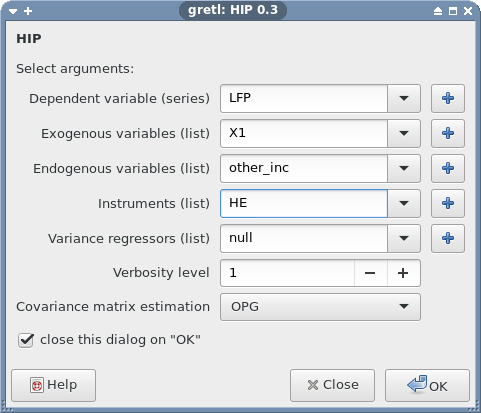
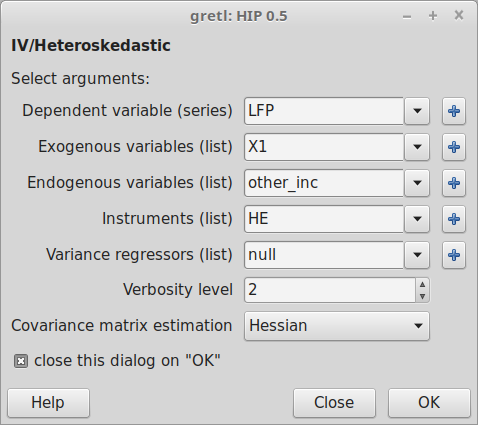
Revise the documentation for the HIP addon, plus some marginal touches to the code

diff --git a/addons/HIP/doc/HIP.tex b/addons/HIP/doc/HIP.tex
@@ -135,7 +135,7 @@
 
 \title{The HIP package}
 \author{Jack Lucchetti \and Claudia Pigini}
-\date{version 0.42}
+\date{version 0.5}
 \begin{document}
 
 \maketitle
@@ -242,25 +242,25 @@ which yields:
 
 \begin{code}
 Probit model with endogenous regressors
-ML, using observations 1-500
-Dependent Variable: y 
+ML, using observations 1-753
+Dependent Variable: LFP 
 Instrumented: other_inc
-Instruments: const, fem_educ, kids, male_educ 
+Instruments: const, WE, KL6, HE 
 Parameter covariance matrix: OPG
 
-              coefficient   std. error      z      p-value 
-  ---------------------------------------------------------
-  const        0.367208     0.460541      0.7973   0.4253  
-  fem_educ     0.211111     0.0290285     7.273    3.53e-13 ***
-  kids        -0.182093     0.0484024    -3.762    0.0002   ***
-  other_inc   -0.0542756    0.00608741   -8.916    4.83e-19 ***
+              coefficient   std. error     z      p-value 
+  --------------------------------------------------------
+  const       -1.20677      0.277614     -4.347   1.38e-05 ***
+  WE           0.179911     0.0297031     6.057   1.39e-09 ***
+  KL6         -0.646468     0.102047     -6.335   2.37e-10 ***
+  other_inc   -0.0332341    0.0156644    -2.122   0.0339   **
 
-Log-likelihood       -2368.2062  Akaike criterion    4756.4124
-Schwarz criterion     4798.5585  Hannan-Quinn        4772.9505
-Conditional ll      -252.045293  Cragg-Donald stat.    101.060
+Log-likelihood       -3325.8255  Akaike criterion    6671.6509
+Schwarz criterion     6717.8916  Hannan-Quinn        6689.4651
+Conditional ll      -465.248010  Cragg-Donald stat.     51.707
 
-Overall test (Wald) = 154.702 (3 df, p-value = 0.0000)
-Endogeneity test (Wald) = 6.84499 (1 df, p-value = 0.0089)
+Overall test (Wald) = 73.9702 (3 df, p-value = 0.0000)
+Endogeneity test (Wald) = 0.446846 (1 df, p-value = 0.5038)
 \end{code}
 
 In this case we used the function \texttt{HIP}, which takes as
@@ -303,7 +303,7 @@ test for $\ProbitPar = 0$ (apart from the intercept).
 
 \begin{figure}[htbp]
   \centering
-  \includegraphics[scale=0.5]{HIP-sshot1.png}
+  \includegraphics[scale=0.4]{HIP-sshot1.png}
   \caption{HIP GUI hook}
   \label{fig:HIP_window}
 \end{figure}
@@ -314,9 +314,23 @@ you'll find it among the other function packages installed on your box
   machine}). Double-click and edit the window that appears like in
 Figure \ref{fig:HIP_window}.
 
+\begin{figure}[htbp]
+  \centering
+  \includegraphics[scale=0.4]{HIP-sshot2.png}
+  \caption{HIP output}
+  \label{fig:HIP_output}
+\end{figure}
+
+\begin{figure}[hbtp]
+  \centering
+  \includegraphics[scale=0.4]{HIP-sshot3.png}
+  \caption{Icon view with a HIP bundle}
+  \label{fig:iconview}
+\end{figure}
+
 Note that in this case we changed the default value of ``Verbosity''
 from 1 to 2 and the default value of ``Covariance matrix estimation''
-from 0 to 1. 
+from ``OPG'' to ``Hessian''. 
 %
 % FIXME this does ot agree with Figures 1 and 2
 %
@@ -324,20 +338,6 @@ This will have the effect of showing us the first stage
 equation as well, and of using the Hessian instead of the OPG as the
 method for computing standard errors. All this is apparent in Figure
 \ref{fig:HIP_output}.
-
-\begin{figure}[htbp]
-  \centering
-  \includegraphics[scale=0.5]{HIP-sshot2.png}
-  \caption{HIP output}
-  \label{fig:HIP_output}
-\end{figure}
-
-\begin{figure}[htbp]
-  \centering
-  \includegraphics[scale=0.5]{HIP-sshot3.png}
-  \caption{Icon view with a HIP bundle}
-  \label{fig:iconview}
-\end{figure}
 
 By using the \emph{Save} menu, you can choose the individual
 elements of the bundle to store away for later use if you
@@ -350,13 +350,13 @@ wamt to keep (see Figure \ref{fig:iconview}).
 \subsection{Heteroskedastic probit}
 
 Here, we'll replicate the example given in William Greene's textbook
-(5th edition), which also uses \citeauthor{Mroz87}'s dataset. The
+(7th edition), which also uses \citeauthor{Mroz87}'s dataset. The
 script goes like this:
 
 \begin{code}
 include HIP.gfn
 
-open mroz87.gdt -q
+open mroz87.gdt --quiet
 series WA2 = WA^2
 series KIDS = (KL6 + K618)>0
 income = FAMINC /10000
@@ -364,24 +364,26 @@ income = FAMINC /10000
 list X = const WA WA2 income KIDS WE
 list Z = income KIDS
 
-list endo = WE
-list inst = WMED WFED CIT
-
 Mitchell = HIP_setup(LFP, X, null, null, Z)
-
+HIP_setoption(&Mitchell, "vcvmeth", 1)
+ 
 set stopwatch
 HIP_estimate(&Mitchell)
 printf "Elapsed time = %g seconds\n", $stopwatch
 
-HIP_printout(&Mitchell, 2)
+HIP_printout(&Mitchell)
 \end{code}
 
 Note that in this case we did not use the \texttt{HIP} function, but
-instead we split its workload between three separate functions:
+instead we split its workload between four separate functions:
 \begin{description}
 \item[HIP\_setup] Sets up the model: basically, it has the same
   parameters as the all-rounder \texttt{HIP} function seen
   above. Returns a bundle.
+\item[HIP\_setoption] Set some details of the estimation procedure; in
+  this case, we used it to compute standard erros out of the inverse
+  Hessian onstead of the OPG matrix, so as to match exactly the
+  figures reported in Greene's book.
 \item[HIP\_estimate] Estimates the model: takes as argument the bundle
   address, plus an optional scalar for the verbosity.
 \item[HIP\_printout] Prints out the results contained in the bundle.
@@ -393,16 +395,45 @@ computed during the initialization of the bundle. You may want to
 decide whether to proceed with estimation or not depending on how
 strong your instruments are.
 
-Of course, the same can be accomplished through the GUI. 
-%(\ldots blah blah \ldots)
+The output, replicating table 17.7 in Greene's textbook, should look
+like this:
+
+\begin{code}
+Heteroskedastic probit model 
+ML, using observations 1-753
+Dependent Variable: LFP 
+Parameter covariance matrix: Hessian
+
+             coefficient   std. error     z      p-value
+  ------------------------------------------------------
+  const      -6.02985      2.49810      -2.414   0.0158  **
+  WA          0.264291     0.118159      2.237   0.0253  **
+  WA2        -0.00362838   0.00143387   -2.530   0.0114  **
+  income      0.424441     0.221839      1.913   0.0557  *
+  KIDS       -0.879093     0.302753     -2.904   0.0037  ***
+  WE          0.140149     0.0518536     2.703   0.0069  ***
+
+Variance 
+
+             coefficient   std. error      z      p-value
+  -------------------------------------------------------
+  KIDS        -0.140752     0.323745    -0.4348   0.6637 
+  income       0.312918     0.122810     2.548    0.0108  **
+
+Log-likelihood        -487.6356  Akaike criterion     991.2712
+Schwarz criterion     1028.2637  Hannan-Quinn        1005.5225
+
+Overall test (Wald) = 14.5557 (5 df, p-value = 0.0124)
+Heteroskedasticity test (LR) = 6.42453 (2 df, p-value = 0.0403)
+Chesher and Irish normality test = 6.23055 (2 df, p-value = 0.0444)
+\end{code}
 
 \subsection{Let's get HIP. Heteroskedasticity and endogeneity at the
   same time.}
 
 The script goes:
 \begin{code}
-set echo off 
-set messages off
+set verbose off 
 include HIP.gfn
 
 open mroz87.gdt -q
@@ -422,7 +453,7 @@ coefficients. The output is as follows:
 \begin{code}
 Heteroskedastic probit model with endogenous regressors
 ML, using observations 1-753
-Dependent Variable: y 
+Dependent Variable: LFP 
 Instrumented: WE
 Instruments: const, WA, CIT, K618, WMED, WFED 
 Parameter covariance matrix: OPG
@@ -478,13 +509,10 @@ If this happens, here are some points to consider.
 \item Scaling of the data (especially $\Endog$) can be an issue; we do
   our best, but hey, give us a hand (for example, multiply or divide
   by 1000 depending of the original scale of the data).
-\item Weak instruments: in some cases, there's little that can be done;
-  see for example the artificially-generated dataset contained in the
-%
-% FIXME there's no weak.gdt in the current package
-%
-  example file \texttt{weak.gdt} in the examples directory. We do some
-  heuristics, but we're not omnipotent.
+\item Weak instruments: in some cases, there's little that can be
+  done; see for example the artificially-generated dataset contained
+  in the \texttt{MonteCarlo.inp} example script, contained in the
+  examples directory. We do some heuristics, but we're not omnipotent.
 \end{itemize}
 
 %\clearpage
@@ -656,57 +684,75 @@ be written as
 \subsection{Model setup}
 \label{sec:gig_setup}
 
-\smallskip
-\textbf{FIXME}: THIS IS OUTDATED AT THE MOMENT AND NEEDS TO BE FIXED.
-\smallskip
+\begin{funcdoc}{HIP\_setoption(bundle *b, string opt, scalar value)}
+  \begin{description}
+  \item[Return type]: \texttt{scalar}
+  \item[\texttt{b}]: pointer to a bundle containing the model to be
+    estimated, as created by \cmd{HIP\_setup}; 
+  \item[\texttt{opt}]: string, the option to set;
+  \item[\texttt{value}]: scalar, the option value
+  \end{description}
+
+  This function sets up an option for estimation of the model, so it
+  is typically used after \cmd{HIP\_setup} and before
+  \cmd{HIP\_estimate}. At present, the possible values for the
+  \texttt{opt} field are ``verbose'' (possible values: 0 to 3) and
+  ``vcvmeth'' (possible values: 0 to 2).
+
+  For ``verbose'', the meaning is: 0 = operate silently, 1 = standard
+  output (default choice), 2 = print the first stage too for IV
+  estimation and 3 = print out ML iterations.  For ``vcvmethod'', the
+  meaning is: 0 = OPG (default), 1 = Hessian, 2 = Sandwich-robust.
+\end{funcdoc}
 
 
-\begin{funcdoc}{HIP\_setup(series y, list EXOG, list ENDOG[null], \
-			  list ADDIN[null], list HETVAR[null], \
-			  int s[0:2:0])}
-\begin{enumerate}
-\item a series containing $y_i$, the dependent binary variable 
-\textbf{(required)}
-\item a list containing the exogenous variables $\Exog$ in $\ExoInst$
-in equation \eqref{eq:main} \textbf{(required)}
-\item a list containing the exogenous variables $\Endog$ in equations
-\eqref{eq:main}--\eqref{eq:RF}
-\item a list containing the additional instruments $\Inst$ in $\ExoInst$
-in equation \eqref{eq:RF}
-\item a list containing the variables $\CSReg$ of the skedastic function
-in equation \eqref{eq:main}
-\item a scalar, acting as an integer, for the choice of the covariance
-  matrix estimation method
-\end{enumerate}
+
+\begin{funcdoc}{HIP\_setup(series y, list EXOG, list ENDOG[null], list ADDIN[null], \\
+			  \rule{2cm}{0pt} list HETVAR[null])}
+\begin{description}
+  \item[Return type]: \texttt{bundle}
+  \item[\texttt{y}]: a series containing $y_i$, the dependent binary
+    variable; \textbf{(required)}
+  \item[\texttt{EXOG}]: a list containing the exogenous variables
+    $\Exog$ in $\ExoInst$ in equation \eqref{eq:main}; \textbf{(required)}
+  \item[\texttt{ENDOG}]: a list containing the exogenous variables
+    $\Endog$ in equations \eqref{eq:main}--\eqref{eq:RF}
+  \item[\texttt{ADDIN}] a list containing the additional instruments $\Inst$ in $\ExoInst$
+    in equation \eqref{eq:RF}
+  \item[\texttt{HETVAR}] a list containing the variables $\CSReg$ of
+    the skedastic function in equation \eqref{eq:main}
+  \end{description}
+
+  This function sets the model up so that it can be subsequently
+  estimated via \cmd{HIP\_estimate}.
 \end{funcdoc}
 
 \subsection{Estimation}
 \label{sec:syntax_estim}
 
 \begin{funcdoc}{HIP\_estimate(bundle *b)}
-General estimation function. % It returns a matrix with the estimation
-% results stored in packed form (see appendix \ref{sec:output_struct}).
-Its argument is:
-\begin{enumerate}
-\item the address of a model bundle created via \texttt{HIP\_setup}
-  \textbf{(required)}
-\end{enumerate}
+\begin{description}
+  \item[Return type]: \texttt{scalar}
+  \item[\texttt{b}]: a model bundle in pointer form, as created by
+    \cmd{HIP\_setup}.
+  \end{description}
+
+  General estimation function. It fills the bundle with the estimated
+  coefficients and many other quantities of interest.
 \end{funcdoc}
 
 \subsection{Output}
 \label{sec:syntax_output}
 
-Note: these functions assume that the bundle they refer to contain a
-model that has already been estimated. No checks are performed.
-
-\begin{funcdoc}{HIP\_printout(bundle *b, int verbose[0:1:3])}
-  Prints out a model. Its arguments are
-  \begin{enumerate}
-  \item the address of a model bundle filled via \texttt{HIP\_estimate}
-  \textbf{(required)}
-  \item a scalar, acting as a integer, to choose the verbosity:
-   0 = quiet, 1 = main equation, 2 = first stages, 3 = mle verbose. 
-\end{enumerate}
+\begin{funcdoc}{HIP\_printout(bundle *b}
+\begin{description}
+  \item[Return type]: none.
+  \item[\texttt{b}]: a model bundle in pointer form, as created by
+    \cmd{HIP\_setup} and filled up by \cmd{HIP\_estimate}.
+  \end{description}
+  Prints out a model. Note: this function assumes that the bundle it
+  refers to contains a model that has already been estimated. No
+  checks are performed.
 \end{funcdoc}
 
 \subsection{GUI wrapper}
@@ -720,6 +766,7 @@ checking the rank condition (if estimating instrumental variables
 probit), it calls:
   \begin{enumerate}
   \item \texttt{HIP\_setup}
+  \item \texttt{HIP\_setoption}
   \item \texttt{HIP\_estimate}
   \item \texttt{HIP\_printout}
 \end{enumerate}
